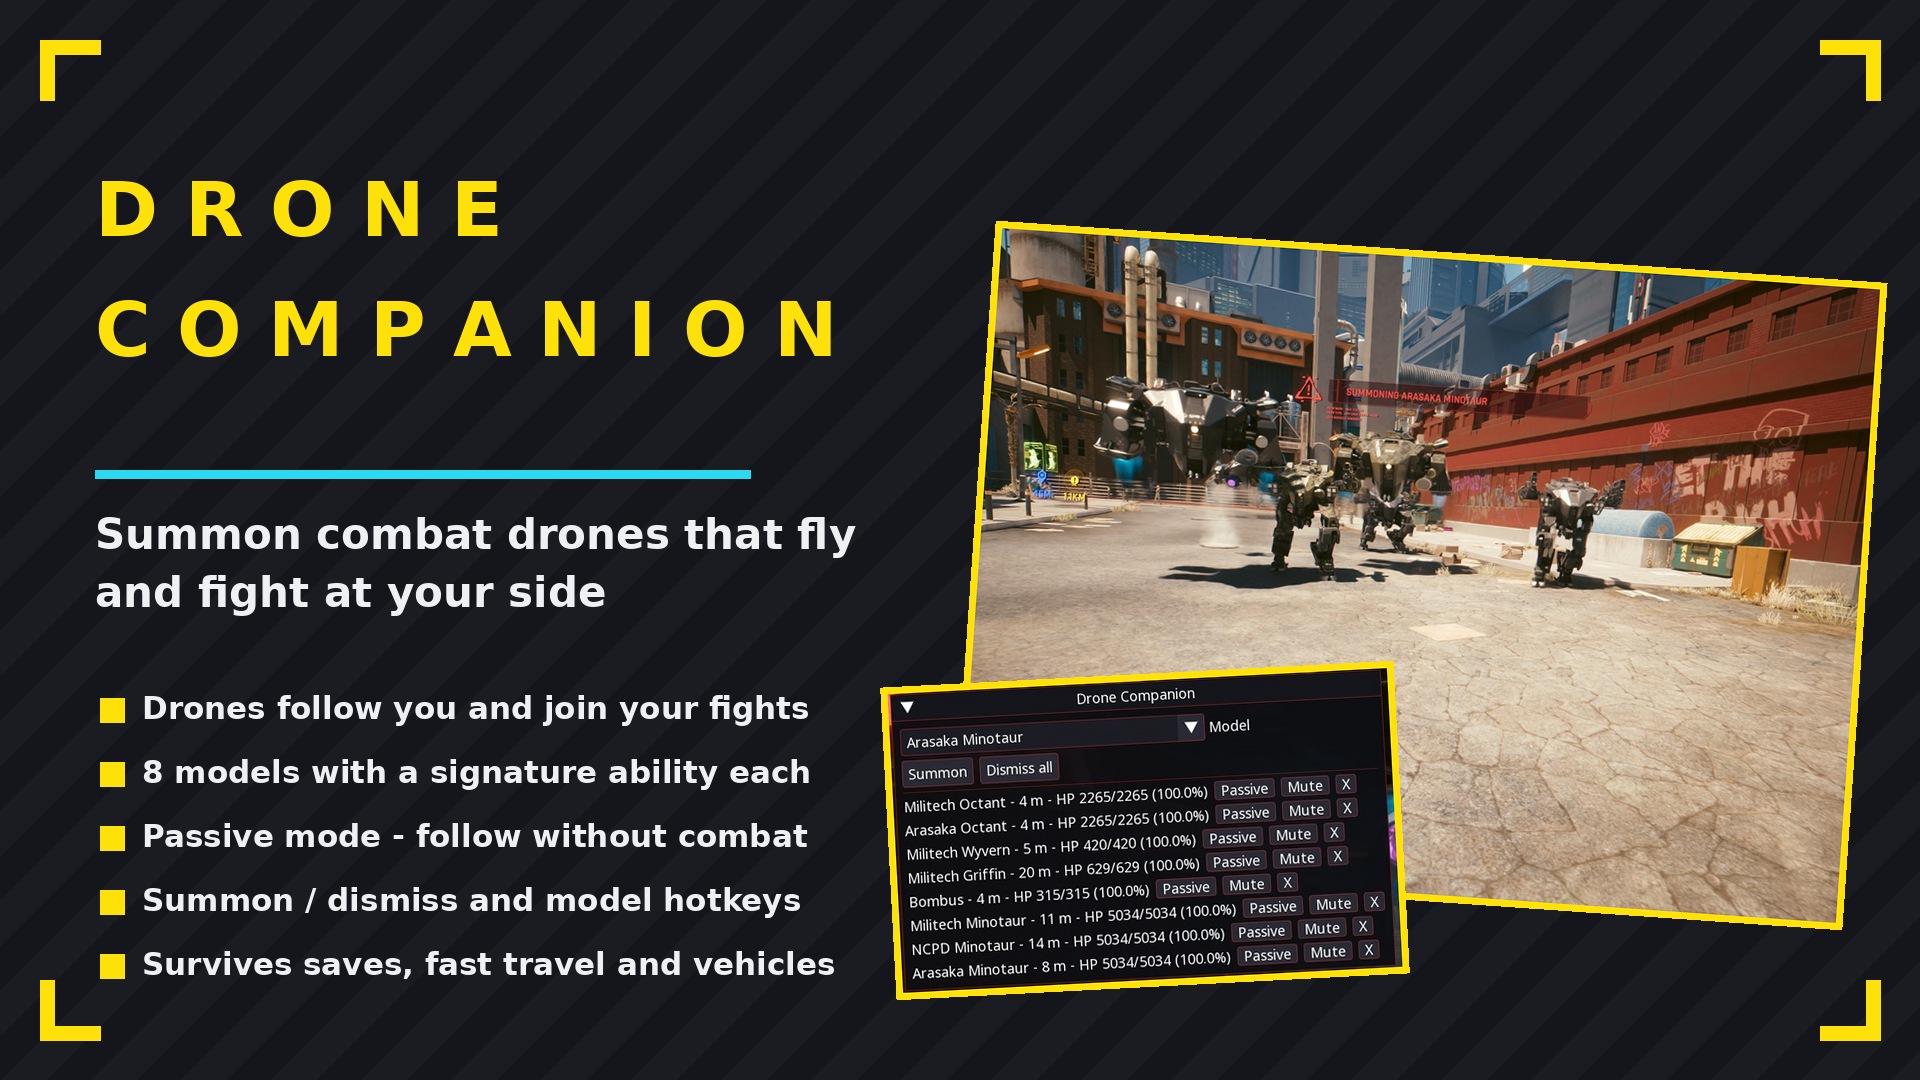
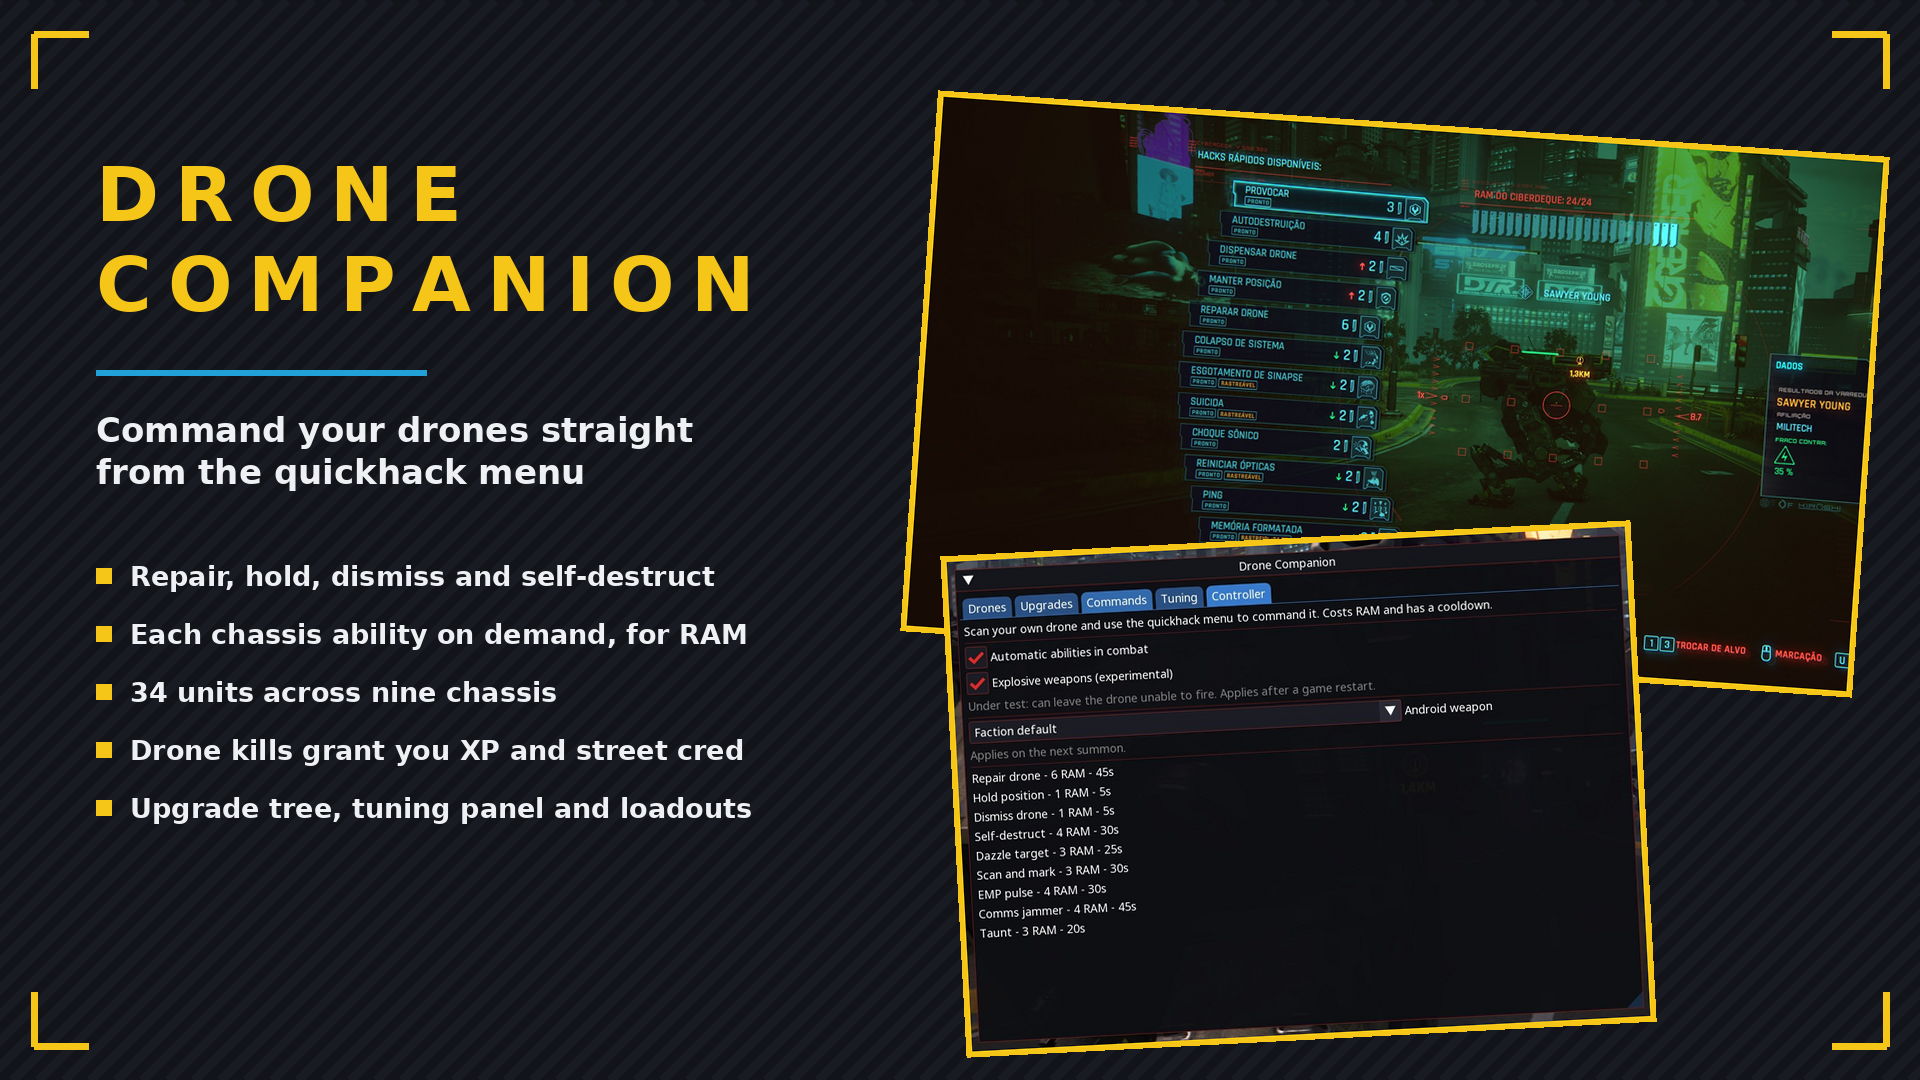
DroneCompanion 3.5.0: quickhack commands, kill credit, android loadout
Drones are now commanded from the quickhack menu: repair, hold position,
dismiss, self-destruct and the chassis ability, each costing RAM with its
own per-drone cooldown. Kills made by a drone credit the player with XP
and street cred. Androids can be given a weapon class.

Explosive per-chassis weapons stay behind a toggle that is off by default:
the cloned weapon leaves the drone with no active weapon.

Screenshots redone for the new menu tabs.

diff --git a/CyberPunk/DroneCompanion/README.md b/CyberPunk/DroneCompanion/README.md
@@ -19,8 +19,9 @@ Summon combat drones that follow you around Night City and fight at your side.
 - English and Portuguese, following the game language
 
 ## 📸 Screenshots
-![screenshot](screenshots/03-arasaka-flying.jpg)
-![screenshot](screenshots/02-manager-menu.jpg)
+![screenshot](screenshots/01-quickhack-commands.jpg)
+![screenshot](screenshots/03-commands-tab.jpg)
+![screenshot](screenshots/08-arasaka-flying.jpg)
 
 ## 📦 Install
 Download on [Nexus Mods](https://www.nexusmods.com/cyberpunk2077/mods/32572). Extract into the game root folder (the one with `bin`, `archive`, `r6`) or install with Vortex / Mod Organizer 2. Requires Cyber Engine Tweaks, RED4ext, redscript, Codeware and TweakXL.
